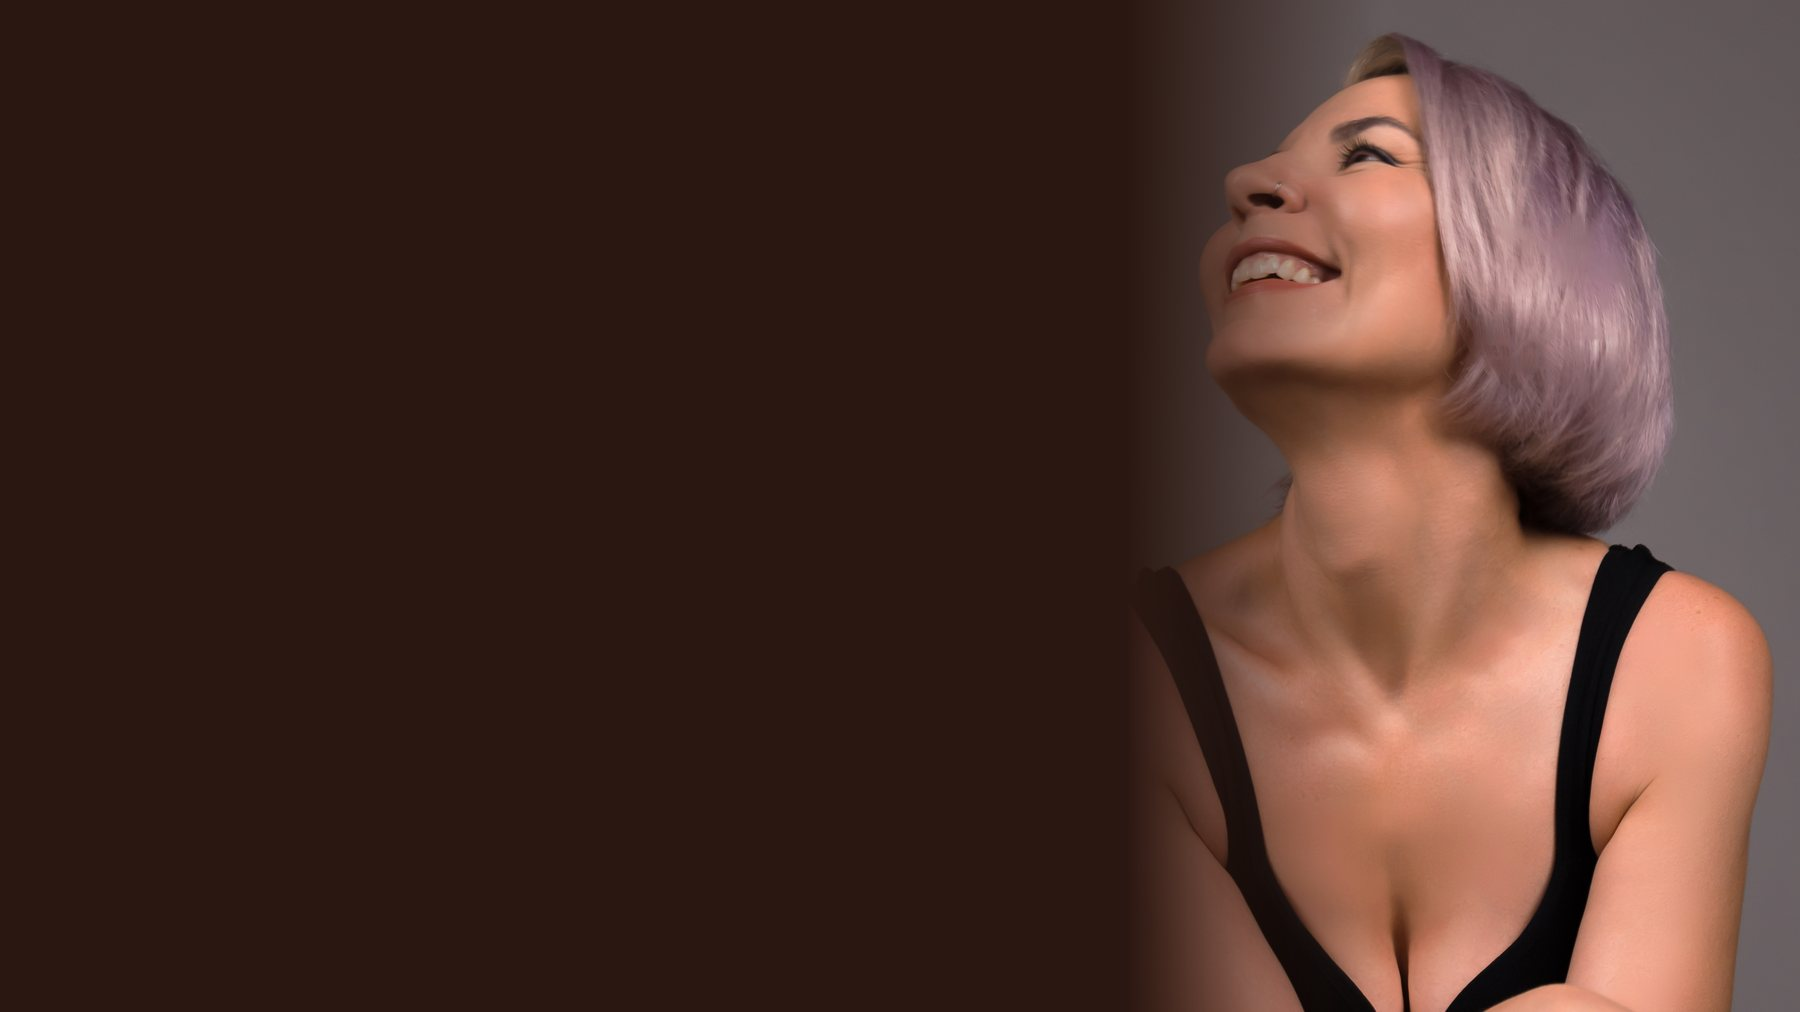
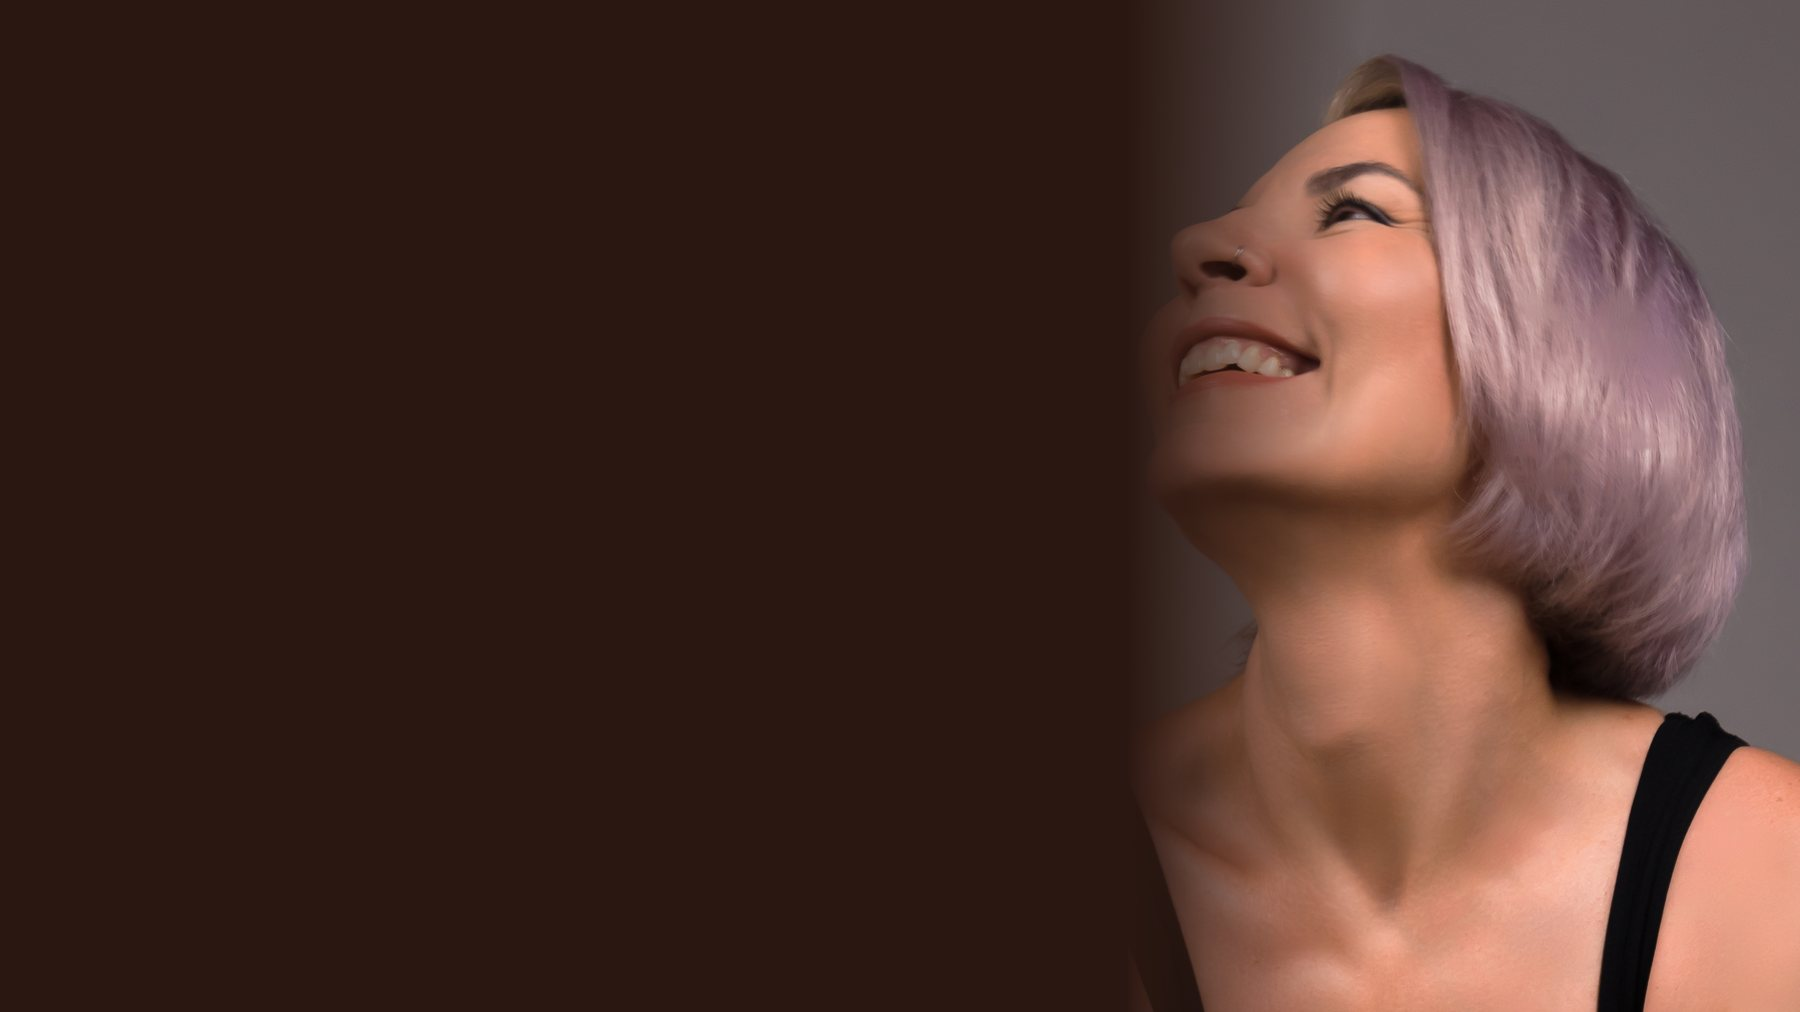
redeploy knowledge base 2026-09-03T14:46:32Z

Changed region(s): [[0.6222, 0.0306, 1.0, 1.0]]

diff --git a/about/index.html b/about/index.html
@@ -220,7 +220,7 @@ h1{font-size:28px}
 .tabs{grid-template-columns:repeat(auto-fit,minmax(140px,1fr));gap:7px}
 .tab{font-size:12.5px;padding:9px 8px}
 }
-</style>
+.hero:not(.about-hero) .art{background:var(--ink) url('/assets/tatiana-hero.jpg') center right/cover no-repeat}.hero:not(.about-hero) .grid{display:none}.hero:not(.about-hero) .glow{display:none}@media(max-width:900px){.hero:not(.about-hero) .art{background-position:72% center}}</style>
 <script>
 (function(){
   var d=document.documentElement;
@@ -241,15 +241,21 @@ h1{font-size:28px}
 <section class="hero about-hero"><div class="art"></div><div class="grid"></div><div class="glow"></div>
 <div class="txt"><div class="eyebrow mono">ОБО МНЕ</div>
 <h1>Привет, я Татьяна Спрыгина</h1>
-<p class="desc">Я помогаю женщинам снижать вес через пищевые привычки. Без обязательного спорта, без подсчёта калорий, без добавок и без списка запрещённых продуктов.</p>
+<p class="desc">Я помогаю женщинам снижать вес через пищевые привычки. Без обязательного спорта, без подсчёта калорий, без БАДов и без списка запрещённых продуктов.</p>
 </div></section>
 <div class="sec">
 <h3>Мой путь</h3>
-<p>После беременности мой вес дошёл до 80 кг. Я хотела похудеть, но ещё больше хотела снова чувствовать себя здоровой и уверенной. В течение года я меняла питание и вырабатывала привычки, которых могла держаться постоянно. За год я похудела на 30 кг. Прошло почти 15 лет. Сейчас мой вес по-прежнему 50 кг, а размер одежды 42-й вместо 50-го.</p>
-<h3>Как я работаю</h3>
-<p>Я ем три раза в день, не считаю калории и не использую спорт как способ снижения веса. Обычные продукты я не запрещаю. Мои клиентки едят то же, что и их семья, и вес у них уходит постепенно и остаётся на месте.</p>
+<p>В 29 лет после рождения дочки мой вес дошёл до 80 кг. Я хотела похудеть, но ещё больше хотела снова чувствовать себя здоровой и уверенной.</p>
+<p>Я пыталась снизить вес на диетах, марафонах, на ПП, но каждый раз срывалась и вес возвращался. Я поняла, что это замкнутый круг, и осознала, что мне нужно менять не продукты, а в целом свое отношение к тому, как я ем.</p>
+<p>В течение года я меняла питание и вырабатывала привычки, которых могла держаться постоянно. За 10 месяцев я похудела на 30 кг. Прошло почти 15 лет. Сейчас мой вес 50 кг, а размер одежды 42-й вместо 50-го.</p>
+<p>Самое главное, что нет срывов, вес не возвращается все эти годы. А мои дети едят также. Это питание подходит для всей семьи.</p>
+<h3>Как я ем</h3>
+<p>Я ем вкусно и сытно. При этом методе похудения можно есть абсолютно все: сладкое, мучное, алкоголь. При этом не надо считать калории, взвешивать продукты, заниматься спортом и пить воду литрами.</p>
+<p>Именно это и получают мои клиенты: не временную диету, а новое отношение к еде и новые привычки, которые внедряются в семью. Всем вкусно, поэтому нет срывов и вся семья ест.</p>
+<h3>Главная мысль моего метода</h3>
+<p>Вас учили худеть, но не учили удерживать результат. То есть цель у нас не просто временно постройнеть, а оставаться стройной и после похудения годами.</p>
 <h3>Чего вы здесь не найдёте</h3>
-<p>Я не медик. Я не ставлю диагнозы, не назначаю лечение и не советую препараты. Вопросы про здоровье, беременность и лекарства решает ваш врач. Моя территория это еда и поведение за столом.</p>
+<p>Я не медик. Я не ставлю диагнозы, не назначаю лечение и не назначаю препараты. Вопросы про здоровье, беременность и лекарства решает ваш врач. Моя территория это еда, привычки, снижение веса.</p>
 </div>
 <div class="cta"><span class="eyebrow"><i class="dot"></i>Следующий шаг</span><div class="ttl">Хватит худеть по кругу</div><p class="sub">Материалы здесь дают первые шаги. Дальше нужен понятный порядок в питании, которого хватает на годы, а не на две недели. Об этом мой курс: как есть обычную еду, наедаться и снижать вес.</p><a class="cta-btn" href="https://spryginatatyana.ru">Перейти к курсу<span class="ar">&#8594;</span></a></div>
 </main>

diff --git a/guide-mify/index.html b/guide-mify/index.html
@@ -220,7 +220,7 @@ h1{font-size:28px}
 .tabs{grid-template-columns:repeat(auto-fit,minmax(140px,1fr));gap:7px}
 .tab{font-size:12.5px;padding:9px 8px}
 }
-</style>
+.hero:not(.about-hero) .art{background:var(--ink) url('/assets/tatiana-hero.jpg') center right/cover no-repeat}.hero:not(.about-hero) .grid{display:none}.hero:not(.about-hero) .glow{display:none}@media(max-width:900px){.hero:not(.about-hero) .art{background-position:72% center}}</style>
 <script>
 (function(){
   var d=document.documentElement;

diff --git a/guide-pervaya-nedelya/index.html b/guide-pervaya-nedelya/index.html
@@ -220,7 +220,7 @@ h1{font-size:28px}
 .tabs{grid-template-columns:repeat(auto-fit,minmax(140px,1fr));gap:7px}
 .tab{font-size:12.5px;padding:9px 8px}
 }
-</style>
+.hero:not(.about-hero) .art{background:var(--ink) url('/assets/tatiana-hero.jpg') center right/cover no-repeat}.hero:not(.about-hero) .grid{display:none}.hero:not(.about-hero) .glow{display:none}@media(max-width:900px){.hero:not(.about-hero) .art{background-position:72% center}}</style>
 <script>
 (function(){
   var d=document.documentElement;

diff --git a/guide-privychki/index.html b/guide-privychki/index.html
@@ -220,7 +220,7 @@ h1{font-size:28px}
 .tabs{grid-template-columns:repeat(auto-fit,minmax(140px,1fr));gap:7px}
 .tab{font-size:12.5px;padding:9px 8px}
 }
-</style>
+.hero:not(.about-hero) .art{background:var(--ink) url('/assets/tatiana-hero.jpg') center right/cover no-repeat}.hero:not(.about-hero) .grid{display:none}.hero:not(.about-hero) .glow{display:none}@media(max-width:900px){.hero:not(.about-hero) .art{background-position:72% center}}</style>
 <script>
 (function(){
   var d=document.documentElement;

diff --git a/guide-semya/index.html b/guide-semya/index.html
@@ -220,7 +220,7 @@ h1{font-size:28px}
 .tabs{grid-template-columns:repeat(auto-fit,minmax(140px,1fr));gap:7px}
 .tab{font-size:12.5px;padding:9px 8px}
 }
-</style>
+.hero:not(.about-hero) .art{background:var(--ink) url('/assets/tatiana-hero.jpg') center right/cover no-repeat}.hero:not(.about-hero) .grid{display:none}.hero:not(.about-hero) .glow{display:none}@media(max-width:900px){.hero:not(.about-hero) .art{background-position:72% center}}</style>
 <script>
 (function(){
   var d=document.documentElement;

diff --git a/guide-tarelka/index.html b/guide-tarelka/index.html
@@ -220,7 +220,7 @@ h1{font-size:28px}
 .tabs{grid-template-columns:repeat(auto-fit,minmax(140px,1fr));gap:7px}
 .tab{font-size:12.5px;padding:9px 8px}
 }
-</style>
+.hero:not(.about-hero) .art{background:var(--ink) url('/assets/tatiana-hero.jpg') center right/cover no-repeat}.hero:not(.about-hero) .grid{display:none}.hero:not(.about-hero) .glow{display:none}@media(max-width:900px){.hero:not(.about-hero) .art{background-position:72% center}}</style>
 <script>
 (function(){
   var d=document.documentElement;

diff --git a/guide-vecher/index.html b/guide-vecher/index.html
@@ -220,7 +220,7 @@ h1{font-size:28px}
 .tabs{grid-template-columns:repeat(auto-fit,minmax(140px,1fr));gap:7px}
 .tab{font-size:12.5px;padding:9px 8px}
 }
-</style>
+.hero:not(.about-hero) .art{background:var(--ink) url('/assets/tatiana-hero.jpg') center right/cover no-repeat}.hero:not(.about-hero) .grid{display:none}.hero:not(.about-hero) .glow{display:none}@media(max-width:900px){.hero:not(.about-hero) .art{background-position:72% center}}</style>
 <script>
 (function(){
   var d=document.documentElement;

diff --git a/guide-ves-vstal/index.html b/guide-ves-vstal/index.html
@@ -220,7 +220,7 @@ h1{font-size:28px}
 .tabs{grid-template-columns:repeat(auto-fit,minmax(140px,1fr));gap:7px}
 .tab{font-size:12.5px;padding:9px 8px}
 }
-</style>
+.hero:not(.about-hero) .art{background:var(--ink) url('/assets/tatiana-hero.jpg') center right/cover no-repeat}.hero:not(.about-hero) .grid{display:none}.hero:not(.about-hero) .glow{display:none}@media(max-width:900px){.hero:not(.about-hero) .art{background-position:72% center}}</style>
 <script>
 (function(){
   var d=document.documentElement;

diff --git a/index.html b/index.html
@@ -220,7 +220,7 @@ h1{font-size:28px}
 .tabs{grid-template-columns:repeat(auto-fit,minmax(140px,1fr));gap:7px}
 .tab{font-size:12.5px;padding:9px 8px}
 }
-</style>
+.hero:not(.about-hero) .art{background:var(--ink) url('/assets/tatiana-hero.jpg') center right/cover no-repeat}.hero:not(.about-hero) .grid{display:none}.hero:not(.about-hero) .glow{display:none}@media(max-width:900px){.hero:not(.about-hero) .art{background-position:72% center}}</style>
 <script>
 (function(){
   var d=document.documentElement;
